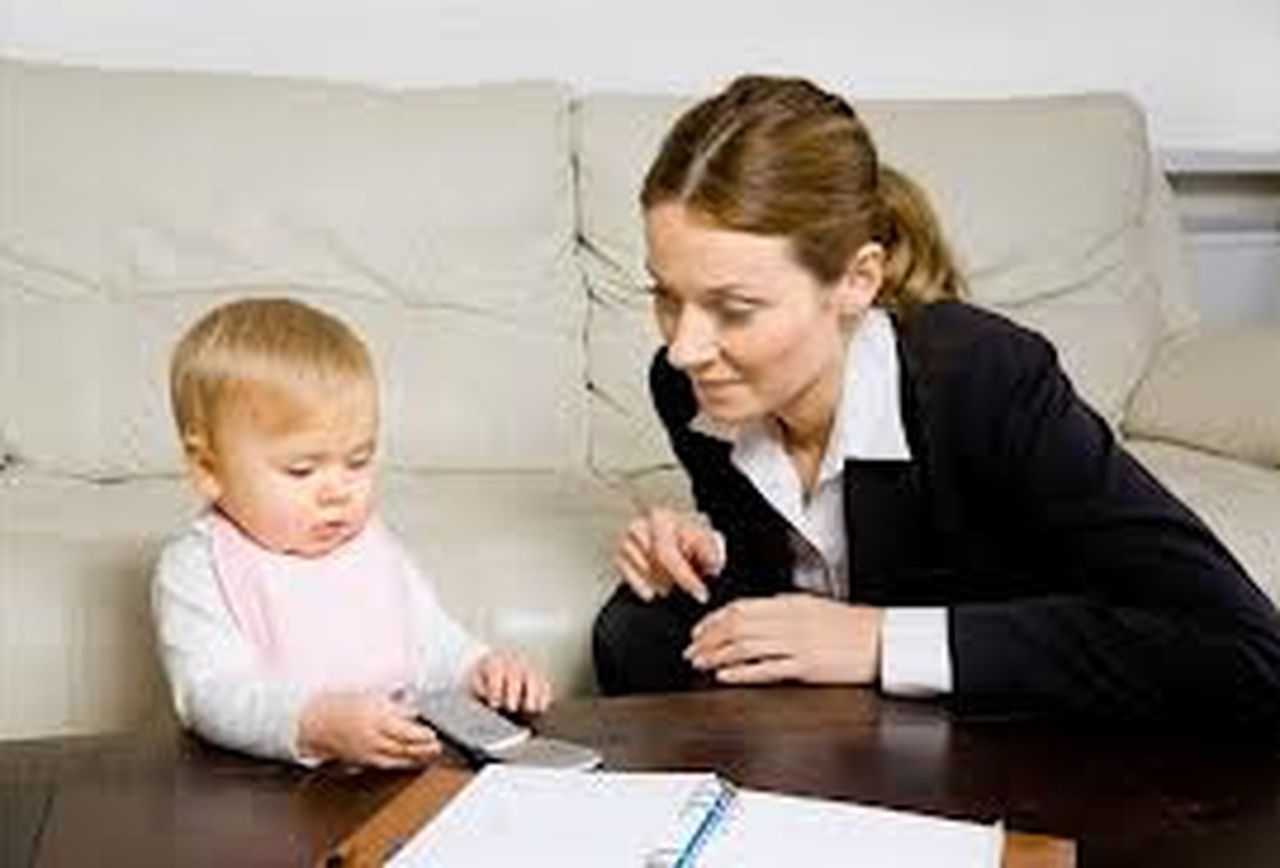
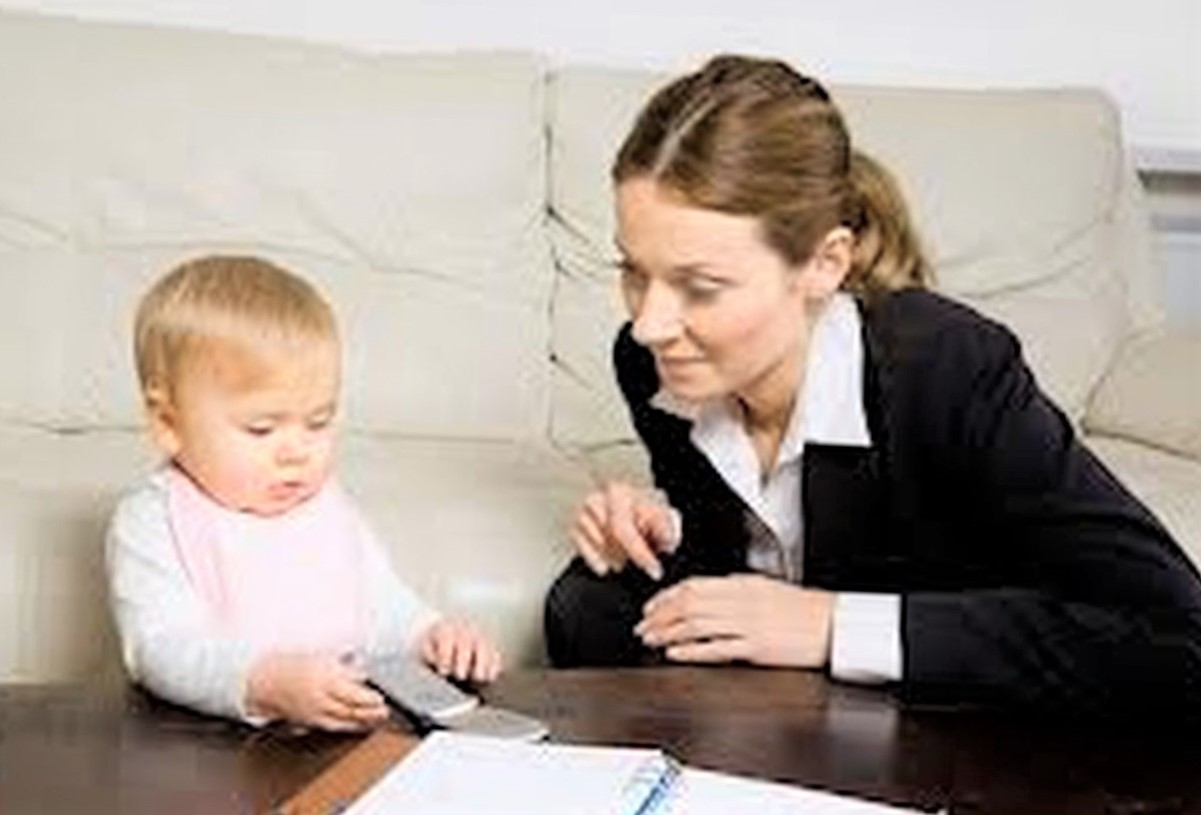
changed the working women image
I changed it from working women to women and work because of the low resolution of the former.

diff --git a/Careers.html b/Careers.html
@@ -65,7 +65,7 @@
   <script src="https://maxcdn.bootstrapcdn.com/bootstrap/4.0.0-beta/js/bootstrap.min.js" integrity="sha384-h0AbiXch4ZDo7tp9hKZ4TsHbi047NrKGLO3SEJAg45jXxnGIfYzk4Si90RDIqNm1" crossorigin="anonymous"></script>
   <script src="https://cdnjs.cloudflare.com/ajax/libs/popper.js/1.14.3/umd/popper.min.js"></script>
 <h3> The Career and family journey of women!</h3><br>
-<img src="img/Working women.jpg" alt="Working women" width="700" height="400" alt="" class="d-inline-block align-center">
+<img src="img/women and work.jpg" alt="women and work" width="700" height="400" alt="" class="d-inline-block align-center">
 <p> The most challenging aspect of women´s lives are pursuing a career and
 raising a family.</p>
 </body>
